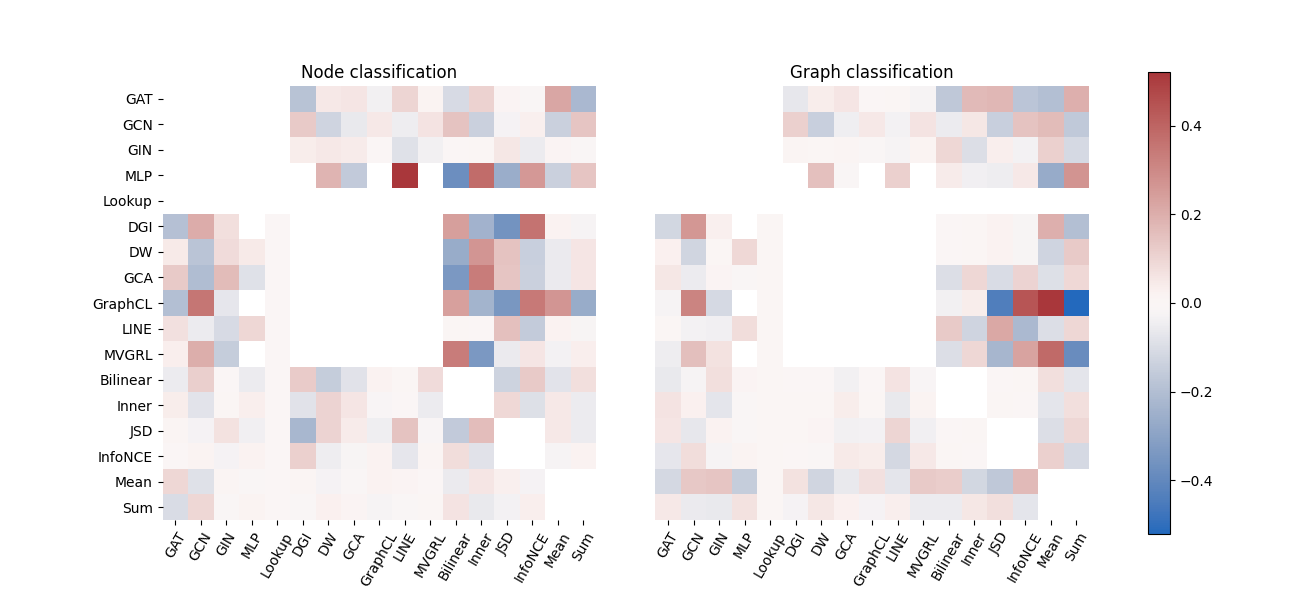
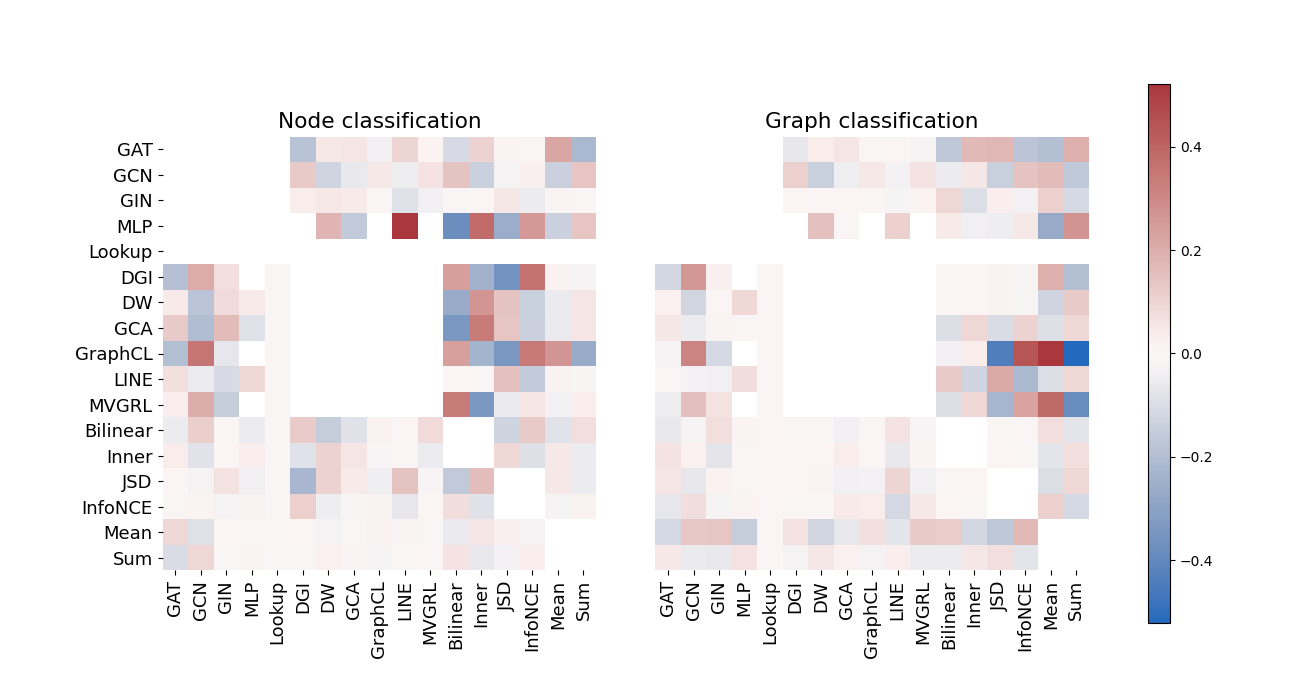
graph update

diff --git a/exps/src/combined_analyse.py b/exps/src/combined_analyse.py
@@ -37,7 +37,7 @@ if not os.path.exists(fig_path):
 def work(args):
     table_0, thresholds, n_all, n_1, options, module_names, module_no_dict, module_intv = args
     data = []
-    for ttt in set(table_0['task'].to_list()):
+    for ttt in ['Node', 'Graph']:
         print(ttt)
         table = table_0[table_0['task'] == ttt]
         for threshold in thresholds:
@@ -105,7 +105,11 @@ def work(args):
     #vmin = min(df.values.min(), df2.values.min())
     #vmax = max(df.values.max(), df2.values.max())
 
-    fig, axs = plt.subplots(ncols=3, figsize=[13, 5], gridspec_kw=dict(width_ratios=[1,1,0.05]))
+    fig, axs = plt.subplots(ncols=3, figsize=[13, 7], gridspec_kw=dict(width_ratios=[1,1,0.05]))
+    plt.rcParams['font.size'] = '13'
+    for ax in axs:
+        for label in (ax.get_xticklabels() + ax.get_yticklabels()):
+            label.set_fontsize(13)
     #sns.set(font_scale=10)
     # plt.tight_layout()
     sns.heatmap(df, cbar=False, square=True, cmap = 'vlag', center=0, ax=axs[0]).set_title("Node classification")
@@ -114,9 +118,10 @@ def work(args):
     fig.colorbar(axs[1].collections[0], cax=axs[2])
     for ax in fig.axes:
             plt.sca(ax)
-            plt.xticks(rotation=60)
+            plt.xticks(rotation=90)
     #
-    fig.set_size_inches([13,6])
+    fig.set_size_inches([13,7])
+
 
     plt.savefig(os.path.join(fig_path, f'pairwise_{threshold}.png'))
     plt.show()
